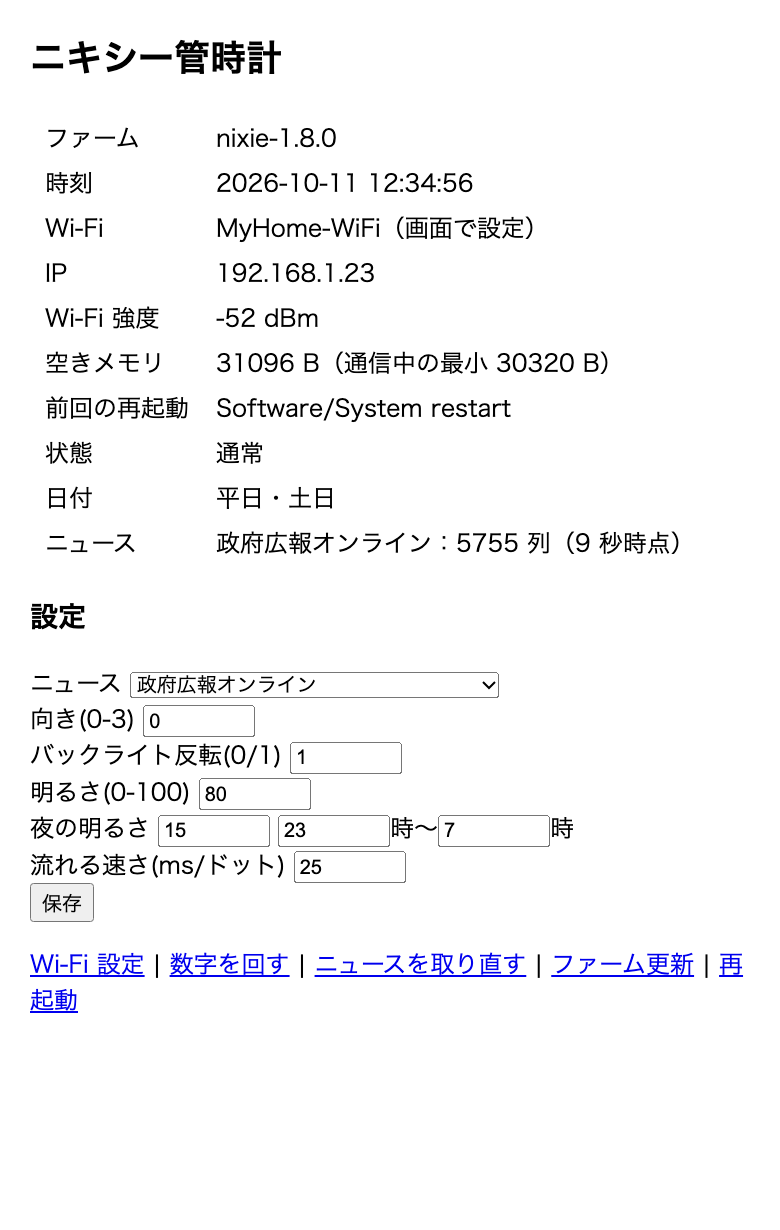
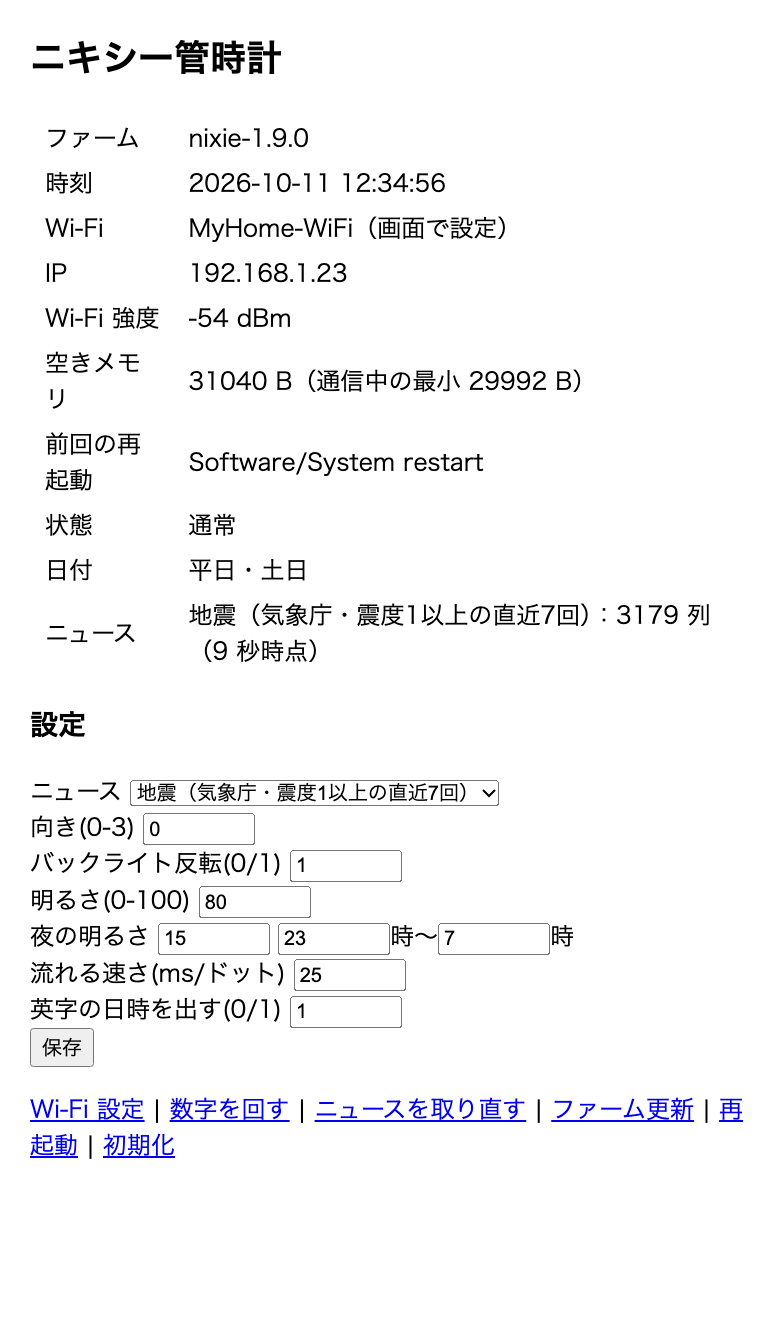
1.9.0：英字の日時、初期化、ニュースの初期値を地震（直近 7 回）に。README を更新

diff --git a/README.md b/README.md
@@ -50,21 +50,24 @@ Smart Weather Clock（SD Pro、[JUZIPi-tech/SD_PRO](https://github.com/JUZIPi-te
 
 | 設定 | 内容 |
 |------|------|
-| ニュース | 政府広報オンライン（新着の説明文）／地震（気象庁の情報から、震度 1 以上の直近 3 回） |
+| ニュース | 地震（気象庁の情報から、震度 1 以上の直近 7 回。初期値）／政府広報オンライン（新着の説明文） |
 | 向き | 0〜3（画面の回転） |
 | バックライト反転 | 0／1（画面が暗いままなら切り替える。この機種は 1） |
 | 明るさ・夜の明るさ | 0〜100 |
 | 夜の時間帯 | 何時から何時まで暗くするか |
 | 流れる速さ | 電光掲示板が 1 ドット進む間隔（ミリ秒。初期値 25） |
+| 英字の日時を出す | 1＝出す（初期値）／0＝消す。ニキシー管の下の小さな日時 |
 
 「保存」を押すとすぐに変わります。
-ほかに「Wi-Fi 設定」「数字を回す」「ニュースを取り直す」「ファーム更新」「再起動」があります。
+ほかに「Wi-Fi 設定」「数字を回す」「ニュースを取り直す」「ファーム更新」「再起動」「初期化」があります。
+「初期化」は、設定と保存した Wi-Fi をすべて消して、最初の状態（QR コードの画面）に戻します。人に譲るときなどに使ってください。
 
 ## できること
 
 - **ニキシー管 8 本で `時:分:秒`**。毎分 0 秒に全部の数字がランダムに回り、左から順に止まります（ダイバージェンスメーター風）
+- **ニキシー管の下に英字の日時**：`Sunday 11 October 2026 13:20:05` のように小さく表示（時計の中の時刻から作るので、通信できなくても出ます。設定で消せます）
 - **上段に時計の IP アドレス**、その下に**日付**：「10月5日(月)」、祝日は「11月23日(勤労感謝の日)」のように祝日名
-- **下段に LED 電光掲示板**：政府広報オンラインの新着か、最近の地震（気象庁）が右から左へ流れます（出典を表示します）
+- **下段に LED 電光掲示板**：最近の地震（気象庁、震度 1 以上の直近 7 回）か、政府広報オンラインの新着が右から左へ流れます（出典を表示します）
 - 夜間（初期値 23 時〜7 時）は画面を暗くします
 - Wi-Fi は、時計の画面の QR コードをスマホで読んで設定できます
 
@@ -90,7 +93,7 @@ Smart Weather Clock（SD Pro、[JUZIPi-tech/SD_PRO](https://github.com/JUZIPi-te
 2. パソコンから元のファームの更新機能に送ります。
 
    ```bash
-   curl -F "update=@NixieClock-1.8.0.bin" http://<時計のIP>/update_ota
+   curl -F "update=@NixieClock-1.9.0.bin" http://<時計のIP>/update_ota
    ```
 
    元のファームが書き込める大きさは約 500KB までです。このファームは約 440KB です。
@@ -106,16 +109,16 @@ Smart Weather Clock（SD Pro、[JUZIPi-tech/SD_PRO](https://github.com/JUZIPi-te
 パソコンからなら、次の 1 行でも書き込めます。
 
 ```bash
-curl -F "firmware=@NixieClock-1.8.0.bin" http://<時計のIP>/update
+curl -F "firmware=@NixieClock-1.9.0.bin" http://<時計のIP>/update
 ```
 
-1.8.0 を書き込むと、明るさ・ニュースなどの設定は初期値に戻ります（家の Wi-Fi の設定は残ります）。
+1.8.0 から 1.9.0 に書き換えたときは、設定も家の Wi-Fi もそのまま残ります（1.6.x 以前から書き換えたときは、明るさ・ニュースなどの設定が初期値に戻ります）。
 
 ## 通信について
 
 - 時刻：NTP（`ntp.nict.jp`、`pool.ntp.org`）。日本時間で表示します。
 - 日付の画像と電光掲示板の文字：`http://api.hasami.uk/clock/` から取ります（日付は毎日 0 時、電光掲示板は 10 分ごと）。
-  政府広報オンライン・気象庁の情報は、サーバーが 1 時間に 1 回取りに行った分です。
+  サーバーが取りに行く間隔は、地震（気象庁）が 15 分ごと、政府広報オンラインが 1 時間ごとです。
   時計には日本語フォントが無いので、サーバーが文字を点の画像にして返します。
   ESP8266 はメモリが少なく HTTPS では余裕がないため、HTTP で取ります。送るのは日付と取得元の種類だけで、個人の情報は送りません。
 - このサーバーは個人で動かしているもので、予告なく止まったり変わったりすることがあります。止まると日付は英字（`10/5 MON`）になり、電光掲示板は流れません。
